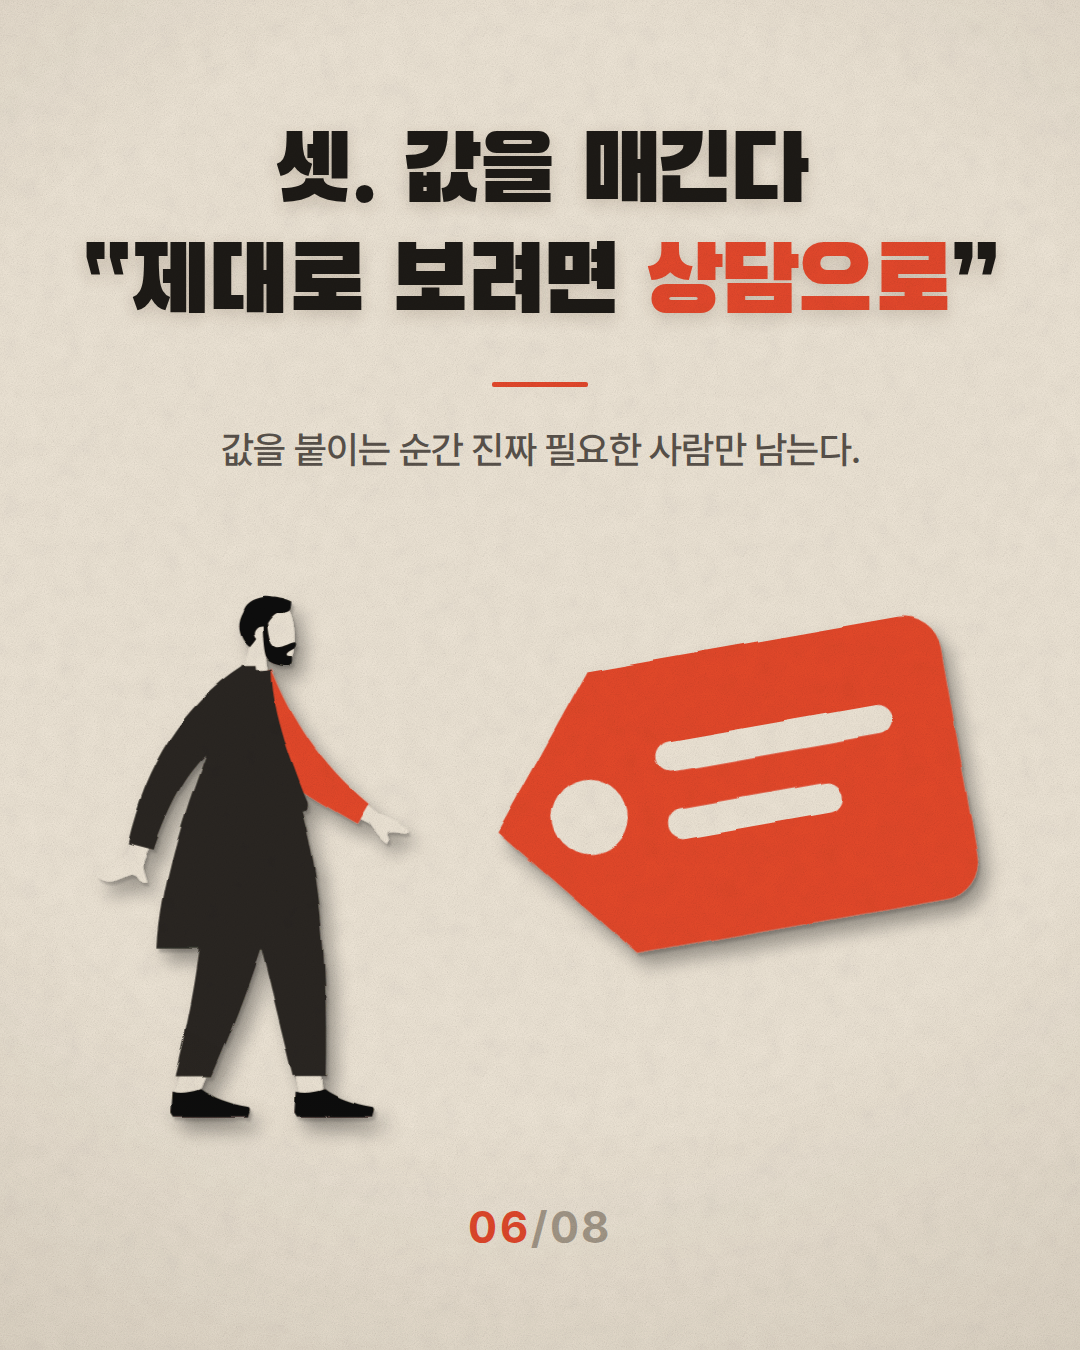
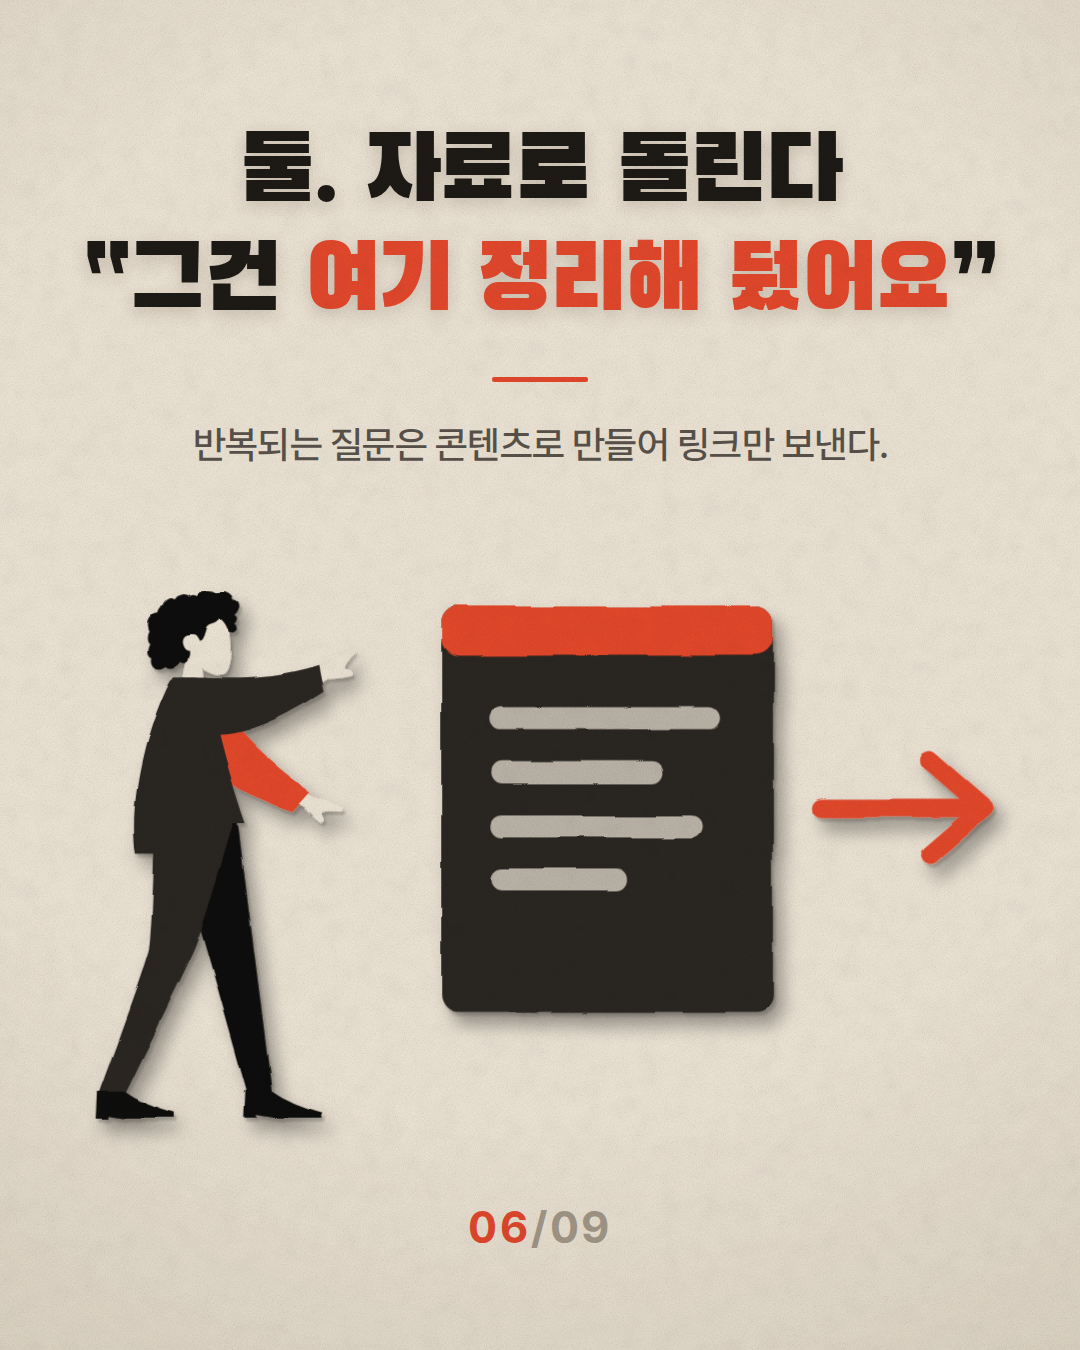
Update brainpick from wider YouTube genre research
조사 결과 반영:
- 한국에서 이 장르 최대 영상은 주우재 '거절하는 방법' 22.5만(좋아요율 3.3%)으로
  후크 단어가 '네트워킹'이 아니라 '거절'이며, 핵심 두려움은 관계 훼손이다
  → 커버 서브카피와 03번 문구를 관계 두려움 정면으로 수정
- 한국 특유의 실제 장면인 '지인 할인' 요구를 04번 카드로 신설
- discount 일러스트 추가, 9장 구성에 맞춰 다크/크림 교차 재배치

Claude-Session: https://claude.ai/code/session_0196FBxeHrocYr2iVRBL3Svf

Changed region(s): [[0.0917, 0.4356, 0.9472, 0.84], [0.1222, 0.0933, 0.8861, 0.2489], [0.1833, 0.28, 0.825, 0.3422]]

diff --git a/cardnews/sets/brainpick.js b/cardnews/sets/brainpick.js
@@ -13,7 +13,7 @@ window.CARD_SET = {
     {
       theme: 'dark', layout: 'cover', art: 'pickBrain',
       lines: ['“커피 한 잔 살게요', '<em>노하우</em> 좀 알려주세요”'],
-      sub: '거절해도 되는 부탁입니다',
+      sub: '거절해도 관계는 깨지지 않습니다',
     },
     {
       theme: 'cream', layout: 'standard', art: 'scale',
@@ -22,33 +22,39 @@ window.CARD_SET = {
     },
     {
       theme: 'dark', layout: 'standard', art: 'hourglass',
-      lines: ['거절이 어려운 건', '<em>나쁜 사람</em>이 될까 봐다'],
-      sub: '그렇게 미루는 동안 내 시간이 먼저 사라진다.',
+      lines: ['거절이 어려운 건', '<em>관계가 틀어질까</em> 봐다'],
+      sub: '그 걱정으로 미루는 동안 내 시간이 먼저 사라진다.',
     },
     {
-      theme: 'cream', layout: 'tick', art: 'askFirst',
+      // 한국에서 이 주제의 실제 얼굴은 '지인 할인' 요구다.
+      theme: 'cream', layout: 'standard', art: 'discount',
+      lines: ['“아는 사이인데', '<em>좀 깎아주면</em> 안 돼요?”'],
+      sub: '아는 사이일수록 값을 먼저 말해야 한다.',
+    },
+    {
+      theme: 'dark', layout: 'tick', art: 'askFirst',
       lines: ['하나. 만나기 전에 되묻는다', '“정확히 <em>뭐가 궁금하세요?</em>”'],
       sub: '용건을 먼저 물으면 절반은 여기서 정리된다.',
     },
     {
-      theme: 'dark', layout: 'tick', art: 'linkOut',
+      theme: 'cream', layout: 'tick', art: 'linkOut',
       lines: ['둘. 자료로 돌린다', '“그건 <em>여기 정리해 뒀어요</em>”'],
       sub: '반복되는 질문은 콘텐츠로 만들어 링크만 보낸다.',
     },
     {
-      theme: 'cream', layout: 'tick', art: 'priceTag',
+      theme: 'dark', layout: 'tick', art: 'priceTag',
       lines: ['셋. 값을 매긴다', '“제대로 보려면 <em>상담으로</em>”'],
       sub: '값을 붙이는 순간 진짜 필요한 사람만 남는다.',
     },
     {
       // 영상의 핵심 논지를 한국어로 다시 쓴 카드.
       // 02번 기울어진 저울과 짝이 되도록 수평 저울을 쓴다.
-      theme: 'dark', layout: 'standard', art: 'balanced',
+      theme: 'cream', layout: 'standard', art: 'balanced',
       lines: ['내가 값을 매기지 않으면', '아무도 <em>값을 쳐주지</em> 않는다'],
       sub: '내 시간의 가격은 내가 먼저 정하는 것이다.',
     },
     {
-      theme: 'cream', layout: 'standard', art: 'boundary',
+      theme: 'dark', layout: 'standard', art: 'boundary',
       lines: ['거절은 관계를 끊는 게 아니라', '<em>기준</em>을 알려주는 것이다'],
       sub: '기준이 있는 사람에게 사람이 모인다.',
     },

diff --git a/cardnews/art.js b/cardnews/art.js
@@ -422,6 +422,26 @@ const ART = {
     </g></g>
   </svg>`,
 
+  /* 18 — 지인이라 깎아달라는 요구 */
+  discount: () => `
+  <svg viewBox="0 0 1000 620" preserveAspectRatio="xMidYMid meet">
+    ${shadow(18)}
+    <g filter="url(#ds18)"><g filter="url(#rg18)">
+      ${figure('asker', 220, 620, 500)}
+      <g transform="rotate(-8 660 320)">
+        <path d="M520 206 h250 a30 30 0 0 1 30 30 v168 a30 30 0 0 1 -30 30 h-250 l-92 -114z"
+              fill="var(--red)"/>
+        <circle cx="502" cy="320" r="30" fill="var(--bg)"/>
+        <g fill="var(--figure-skin)">
+          <rect x="562" y="272" width="190" height="24" rx="12"/>
+          <rect x="562" y="326" width="140" height="24" rx="12"/>
+        </g>
+        <path d="M498 400 L800 214" stroke="var(--figure)" stroke-width="20" stroke-linecap="round"/>
+      </g>
+      ${figure('holder', 830, 620, 500, true)}
+    </g></g>
+  </svg>`,
+
   /* 13 — 사방에서 들이미는 요청, 가운데서 받아내는 사람 (커버용) */
   swamped: () => `
   <svg viewBox="0 0 980 620" preserveAspectRatio="xMidYMid meet">

diff --git a/cardnews/README.md b/cardnews/README.md
@@ -53,7 +53,7 @@ npx http-server . -p 8080     # http://localhost:8080/cardnews/?set=networking
 | 세트 | 내용 |
 |---|---|
 | `networking` | 네트워킹을 착각하는 사람들 (7장) |
-| `brainpick` | "노하우 좀 알려주세요" 거절법 (8장) |
+| `brainpick` | "노하우 좀 알려주세요" 거절법 (9장) |
 | `givefirst-en` | Give first — your knowledge has a price (영문 7장) |
 | `fifthtime` | 다섯 번째 "잠깐만 물어봐도 돼요?" (7장) |
 | `coffeechat` | 커피챗 요청, 다 받아주고 계신가요? (7장) |
